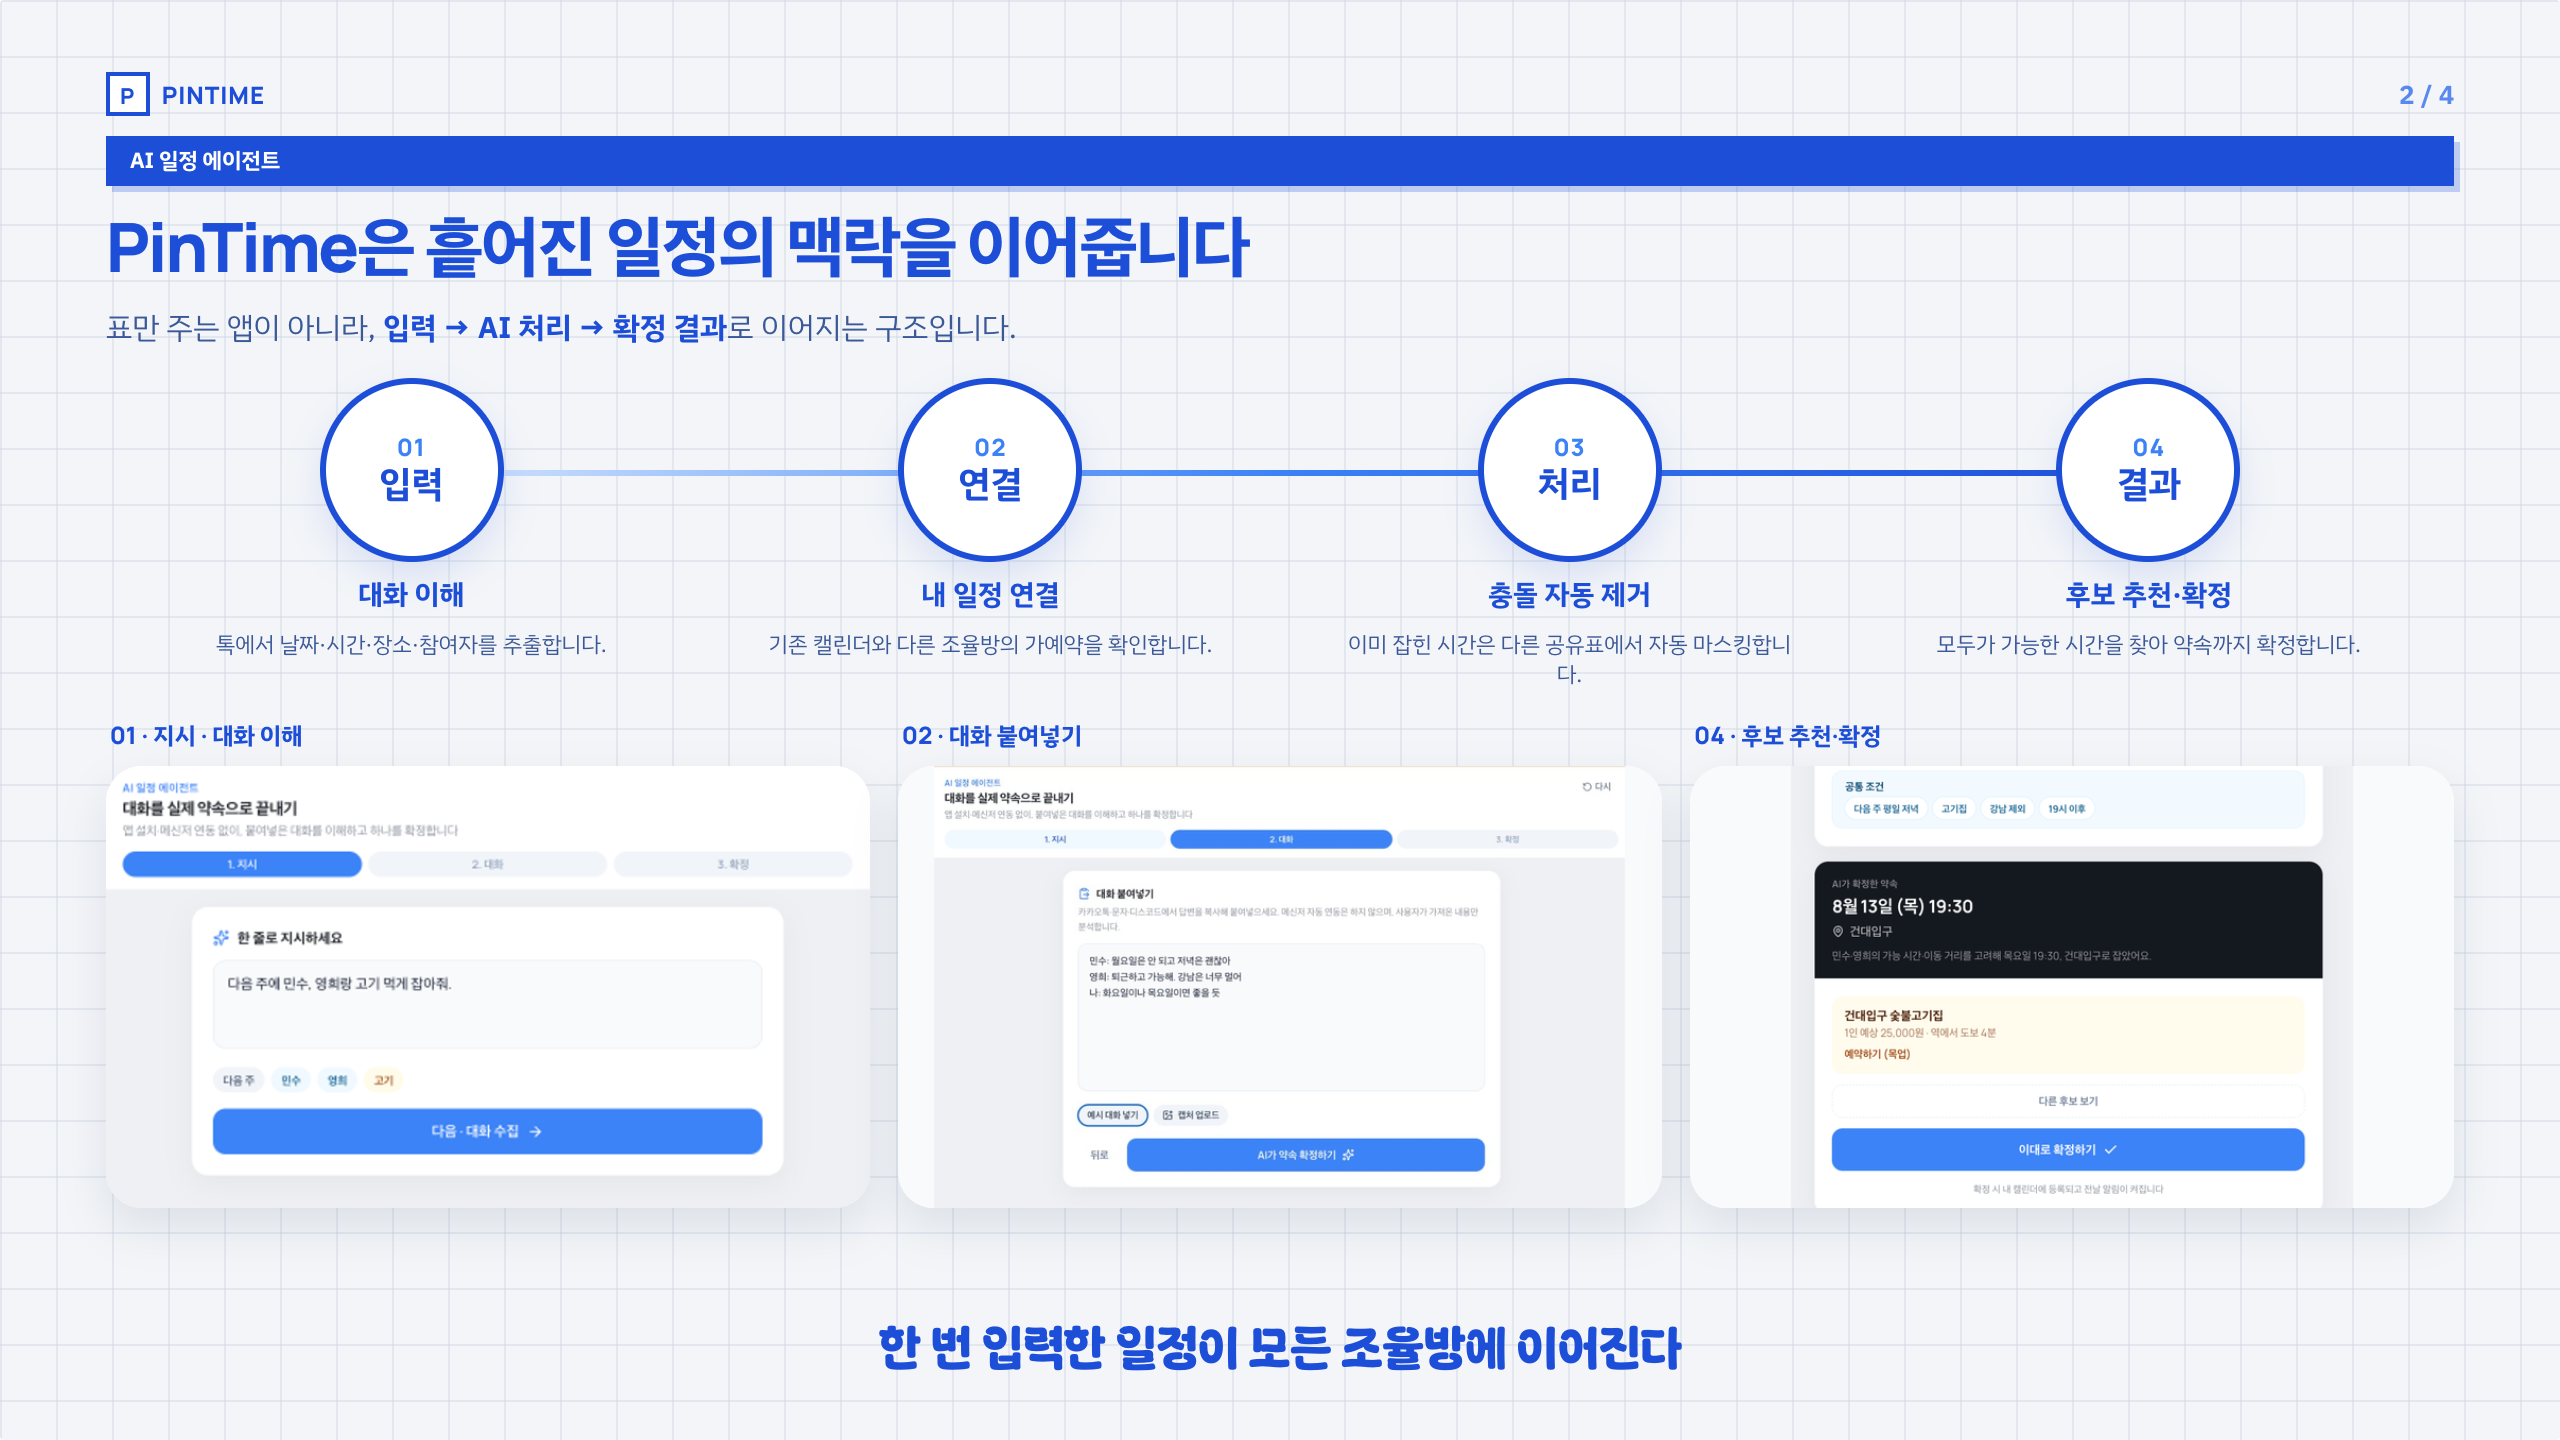
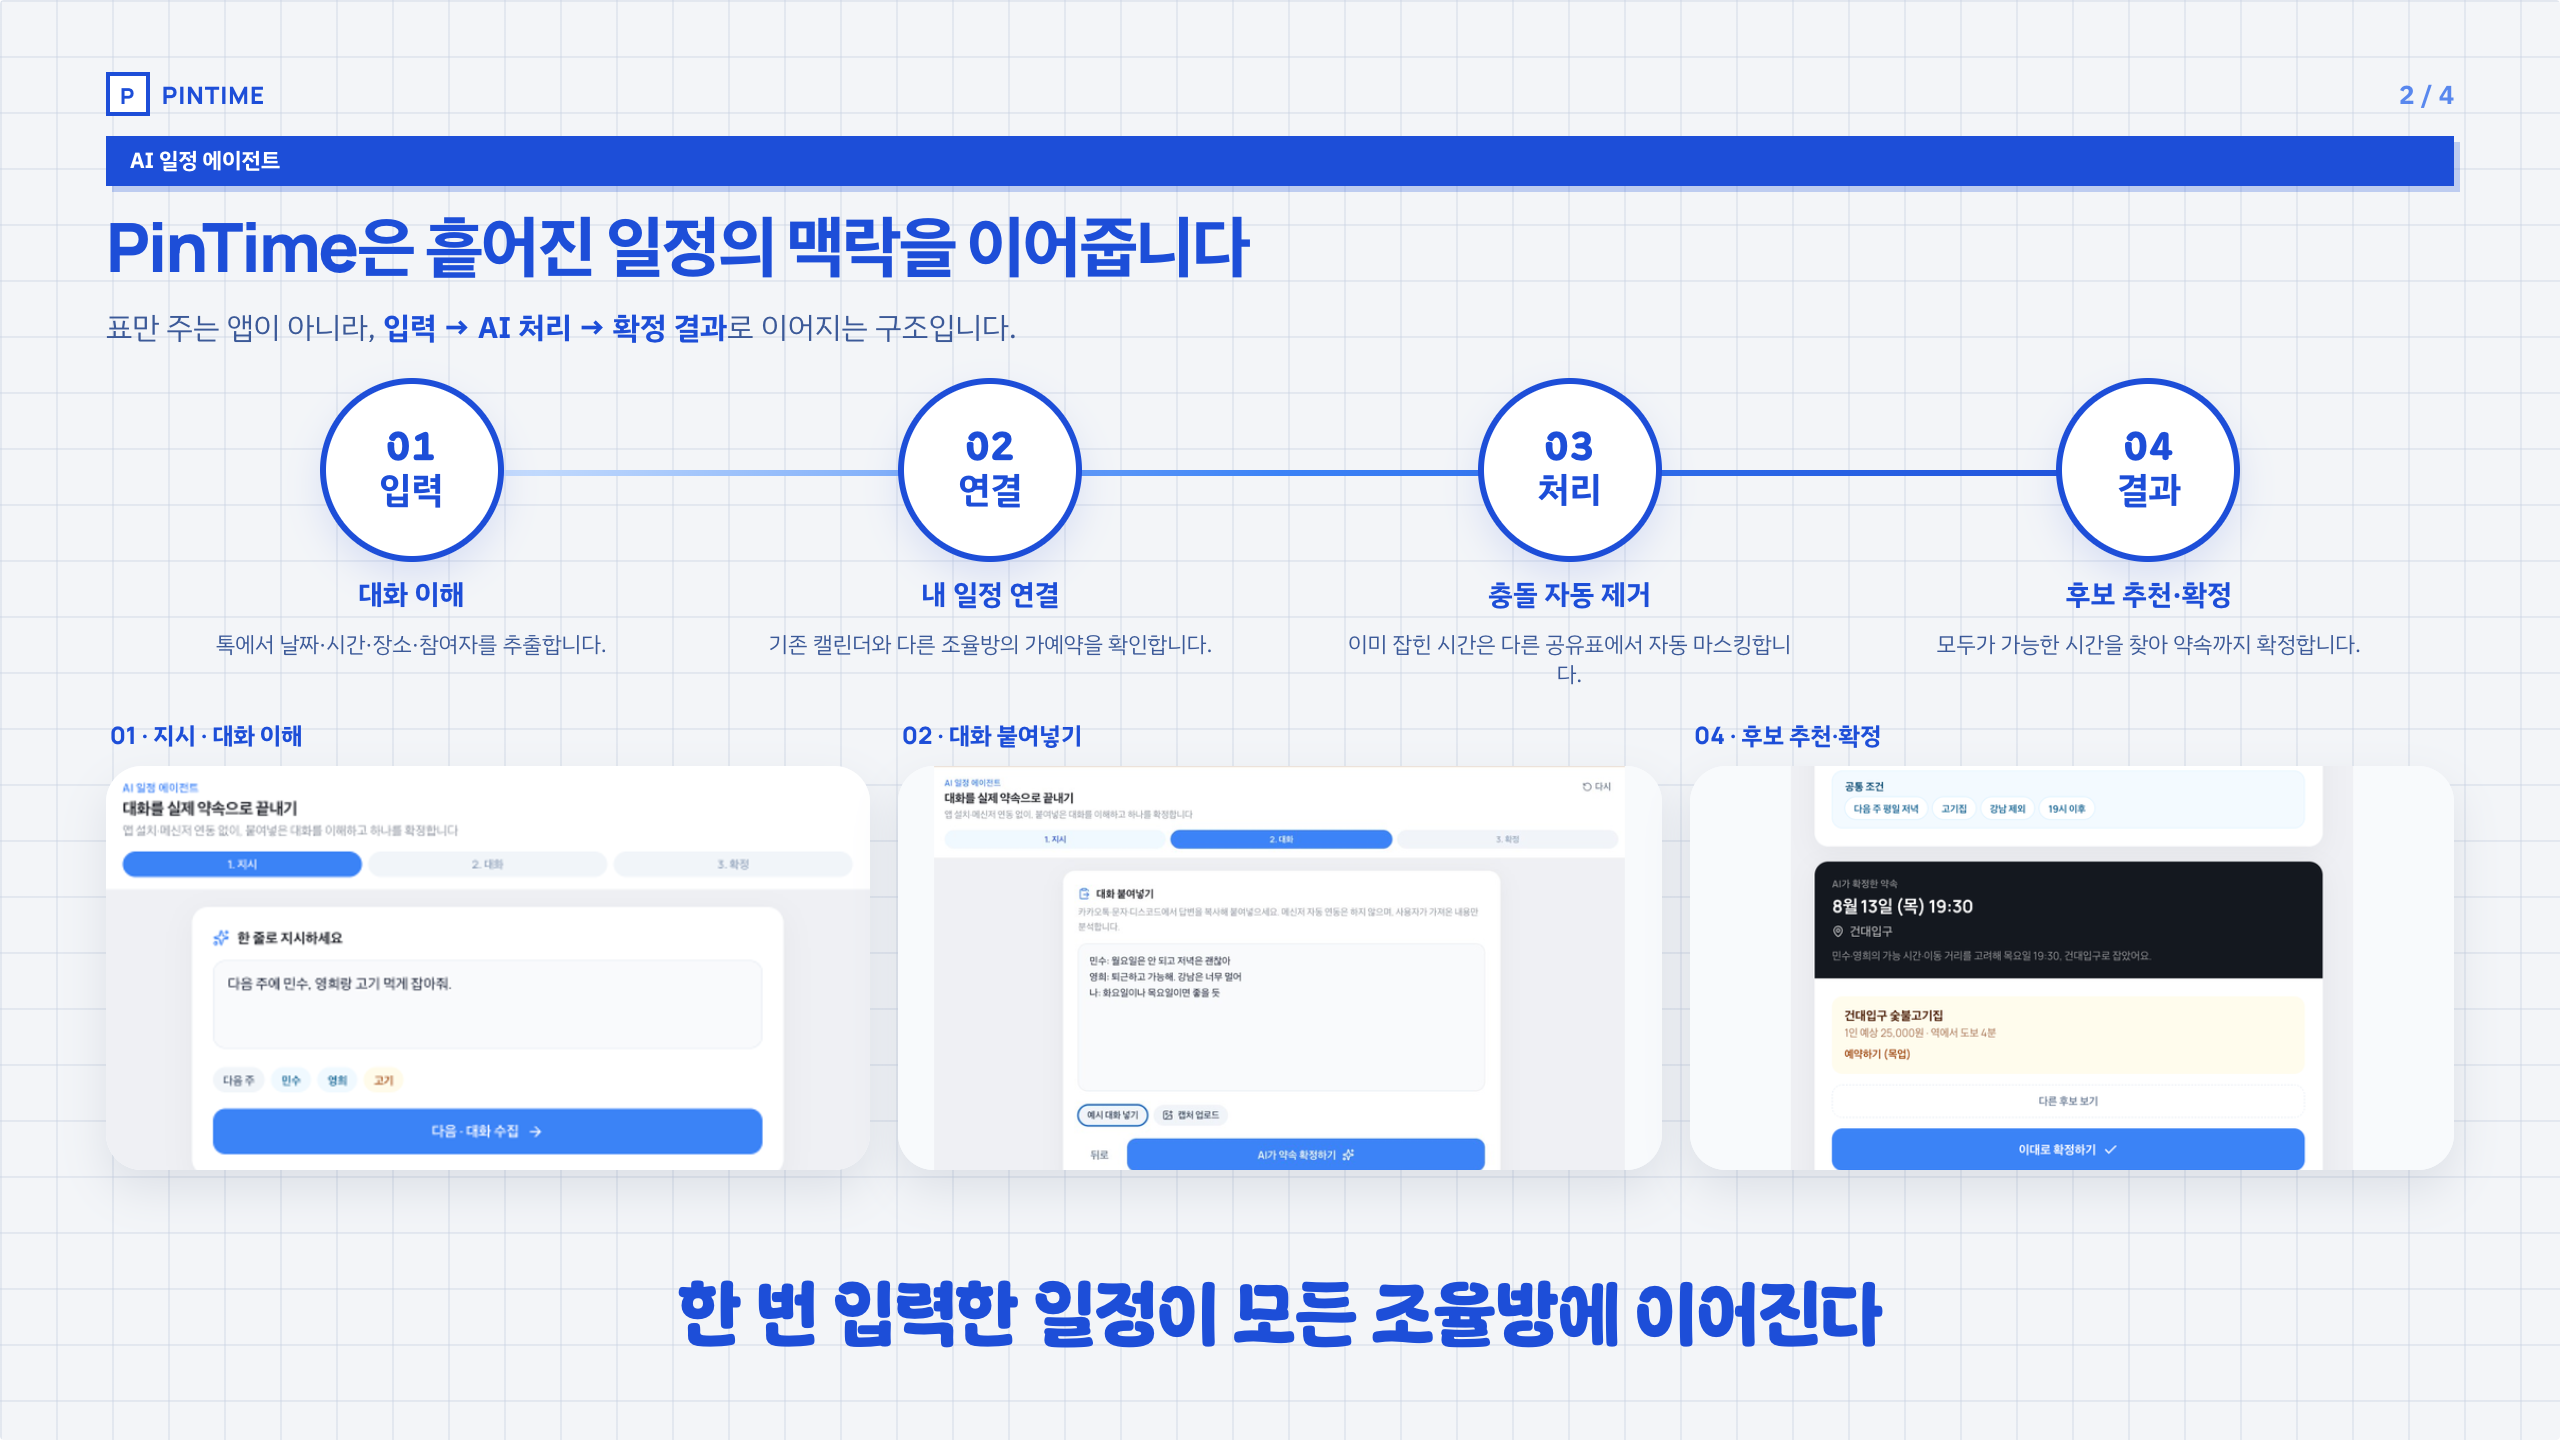
Enlarge AI centerline with equal spacing; use Gumi for step numbers.

diff --git a/public/pitch.html b/public/pitch.html
@@ -510,11 +510,11 @@
         gap: 2px;
       }
       .ai-step .orb .n {
-        font-family: Manrope, sans-serif;
-        font-weight: 800;
-        font-size: 12px;
-        letter-spacing: 0.04em;
-        color: var(--blue-soft);
+        font-family: 'Gumi Romance', 'IBM Plex Sans KR', sans-serif;
+        font-weight: 400;
+        font-size: 18px;
+        letter-spacing: 0.02em;
+        color: var(--blue);
         line-height: 1;
       }
       .ai-step .orb .stage {
@@ -566,7 +566,7 @@
       }
       .ai-shot img {
         width: 100%;
-        height: 2.3in;
+        height: 2.1in;
         object-fit: cover;
         object-position: top center;
         display: block;
@@ -574,18 +574,22 @@
         border-radius: 18px;
         box-shadow: 0 10px 22px rgba(15, 35, 80, 0.1);
       }
+      #p3 .slide-inner {
+        padding-bottom: 0.22in;
+      }
       .ai-centerline {
-        margin: 18px 0 0;
+        margin: 0.22in 0;
         text-align: center;
         font-family: 'Gumi Romance', 'IBM Plex Sans KR', sans-serif;
-        font-size: 22px;
-        font-weight: 700;
+        font-size: 33px;
+        font-weight: 400;
         letter-spacing: -0.02em;
         color: var(--blue);
-        padding: 8px 12px 2px;
+        padding: 0;
         background: transparent;
         border: none;
         flex-shrink: 0;
+        line-height: 1.25;
       }
 
       .proto-row {
